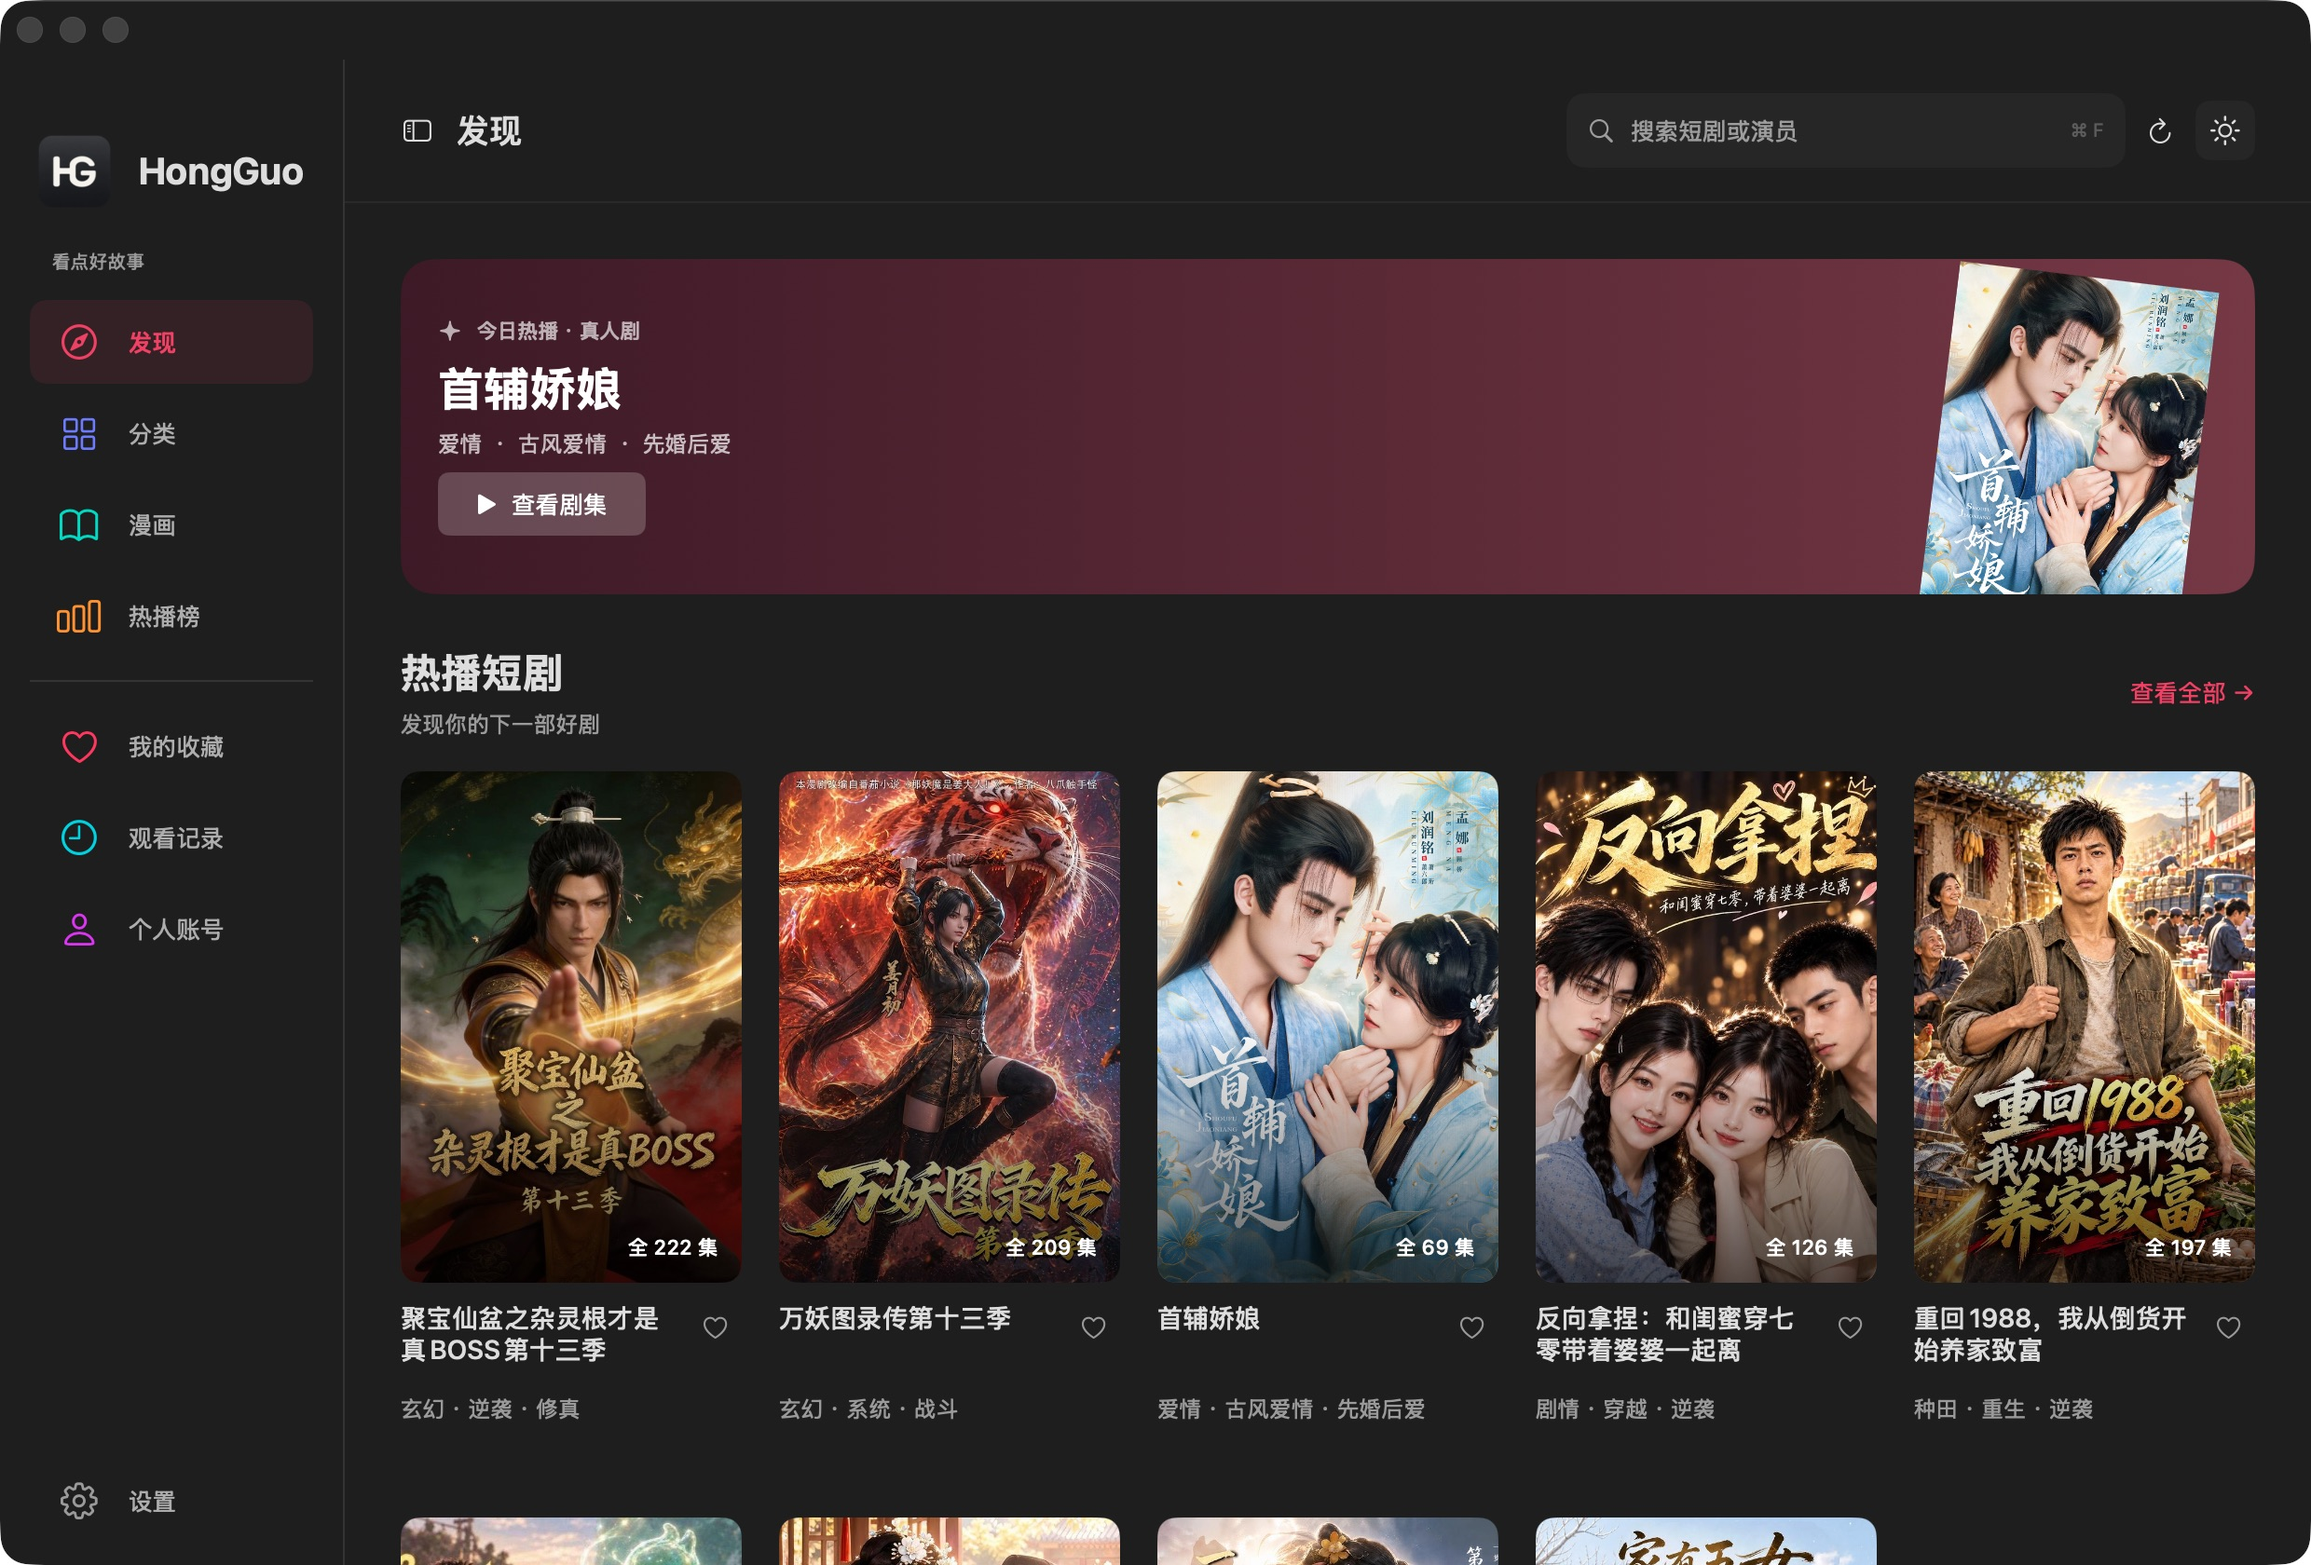
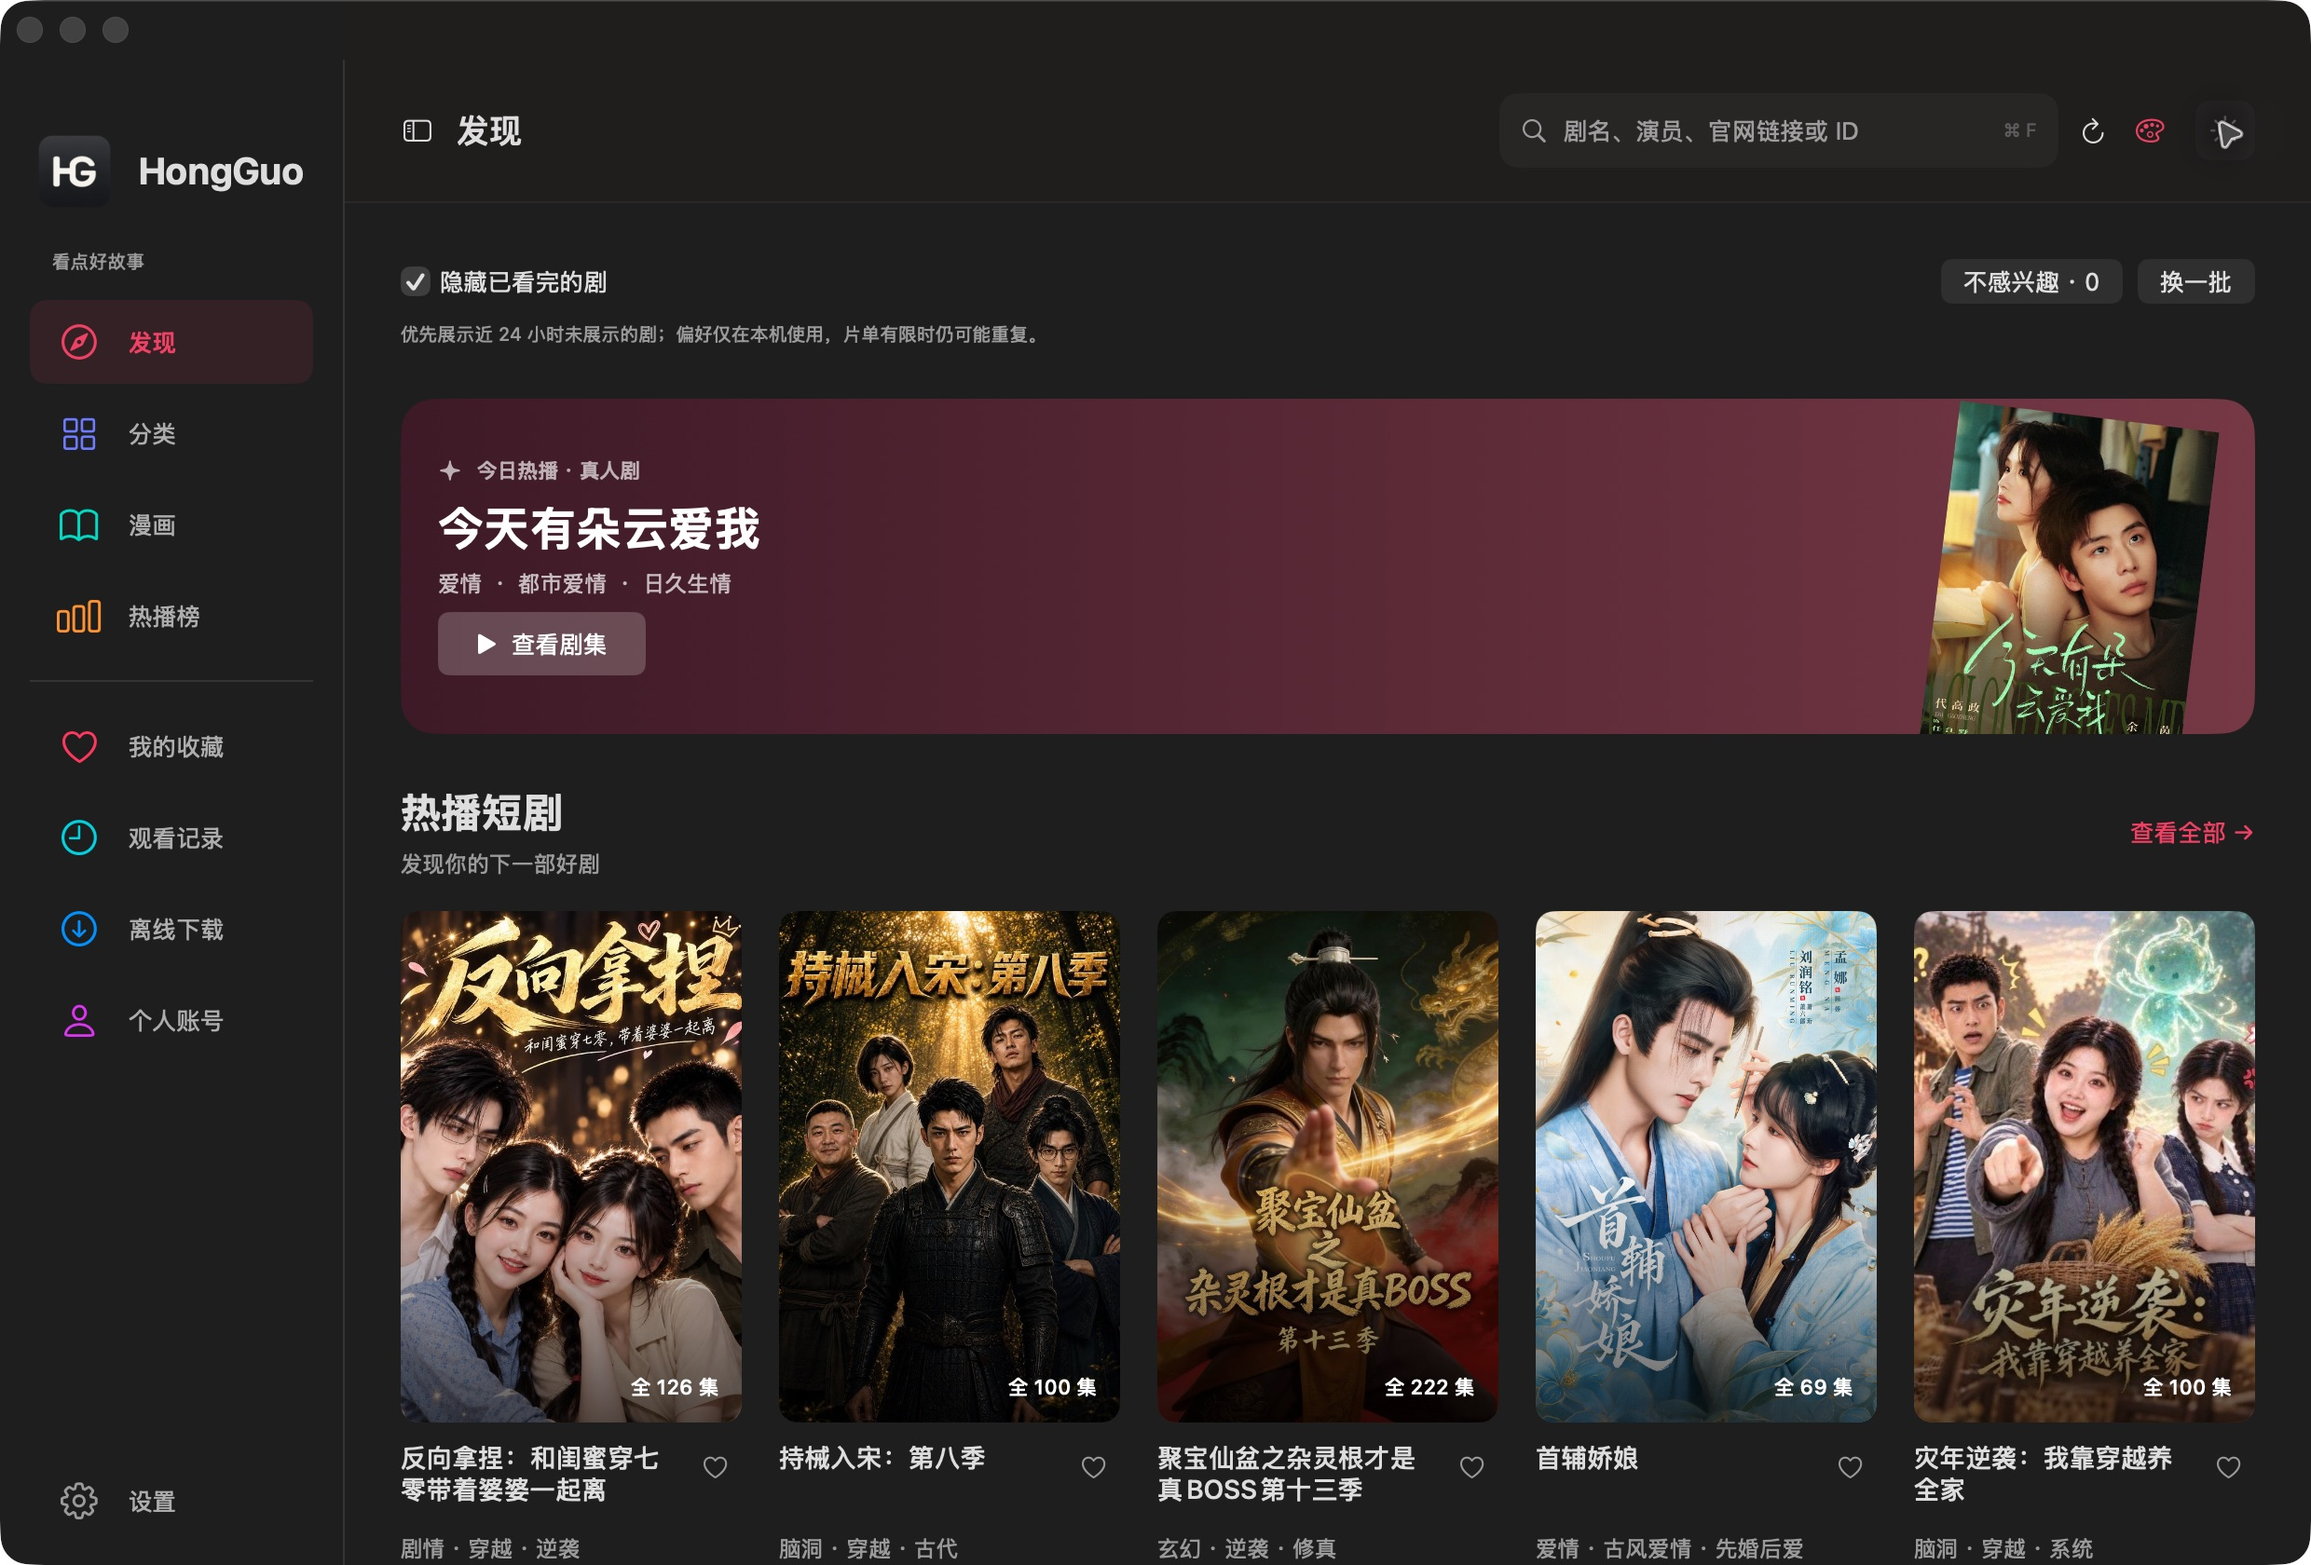
Release HongGuo for macOS v0.8.0

diff --git a/RELEASE_NOTES.md b/RELEASE_NOTES.md
@@ -1,0 +1,43 @@
+# HongGuo for macOS v0.8.0（非官方）
+
+**macOS 14+ · Apple Silicon（M 系列）· 155.0 MiB**
+
+**[⬇ 下载 Mac 安装包](https://github.com/junmo-zy/hongguo-mac/releases/download/v0.8.0/HongGuo-Mac-0.8.0-arm64.dmg)** · [安装与完整说明](https://github.com/junmo-zy/hongguo-mac#三步安装) · [全部界面截图](https://github.com/junmo-zy/hongguo-mac#界面截图)
+
+## 本次更新
+
+- **映幕与青序主题**：保留经典，新增两套视觉风格。首页、剧集卡片、详情和播放器保持 SwiftUI 原生结构，兼顾深浅外观。
+- **离线下载与 MP4 导出**：支持范围选集、清晰度、暂停/续传、重试、目录迁移和索引修复；可分别导出或按集数无损合并。
+- **播放与恢复**：下一集预加载单独控制；竖屏小窗、临时 2 倍速、暂停并隐藏、画面模式、防休眠、兼容转码，以及失败切集回退。
+- **找剧与追更**：官网链接/ID、演员搜索、其他季候选、本机追更、推荐换一批、只读本集评论和正式版更新提醒。
+- **文档与截图**：更新全部功能说明，重新拍摄 12 张最新版截图，展示三套主题及详情、播放器、分类和离线选集。
+
+## 界面预览
+
+| 青序 · 浅色 | 映幕 · 深色 |
+| --- | --- |
+| ![青序浅色](https://raw.githubusercontent.com/junmo-zy/hongguo-mac/v0.8.0/home-jade-light.png) | ![映幕深色](https://raw.githubusercontent.com/junmo-zy/hongguo-mac/v0.8.0/home-cinema-dark.png) |
+
+## 安装与更新
+
+下载 `.dmg`，退出旧版，把 **HongGuo.app** 拖入 Applications 并替换。本机收藏、观看记录和播放偏好继续保留，重要数据可先在设置导出备份。已内置运行环境，不必另装 Python 或 Java。`Source code` 压缩包不是安装包。
+
+当前只提供 Apple Silicon 版本。应用采用临时签名，尚未经过 Apple 公证；若系统阻止打开，请核对来源后使用“隐私与安全性”中的系统打开入口，无需关闭系统安全防护。
+
+## 验证与限制
+
+已通过自动化回归、六种主题/外观设置页渲染与滚动、签名、DMG 与 SHA-256 校验；测试环境为 Apple Silicon / macOS 26.6.2。覆盖真实在线/离线播放、下载续传、MP4 导出合并、切集恢复与偏好记忆。
+
+AirPlay 配置、接口及调用链已验证，但系统选择器显示与实际投放尚未确认；未完成其他系统版本和长时间耐久测试。账号登录、手机云同步、评论发布和会员体系尚未接入。内容可用性依赖第三方服务。
+
+## 文件校验
+
+`HongGuo-Mac-0.8.0-arm64.dmg` · 162,496,651 字节
+
+```text
[1 lines of base64/hex data omitted]
+```
+
+可同时下载 `SHA256SUMS-0.8.0.txt` 核对文件。
+
+本项目不是红果官方产品，与红果及其关联主体无隶属、合作或背书关系。第三方内容、封面、商标与组件归各自权利人所有。[免责声明与权利说明](https://github.com/junmo-zy/hongguo-mac/blob/main/DISCLAIMER.md)。
